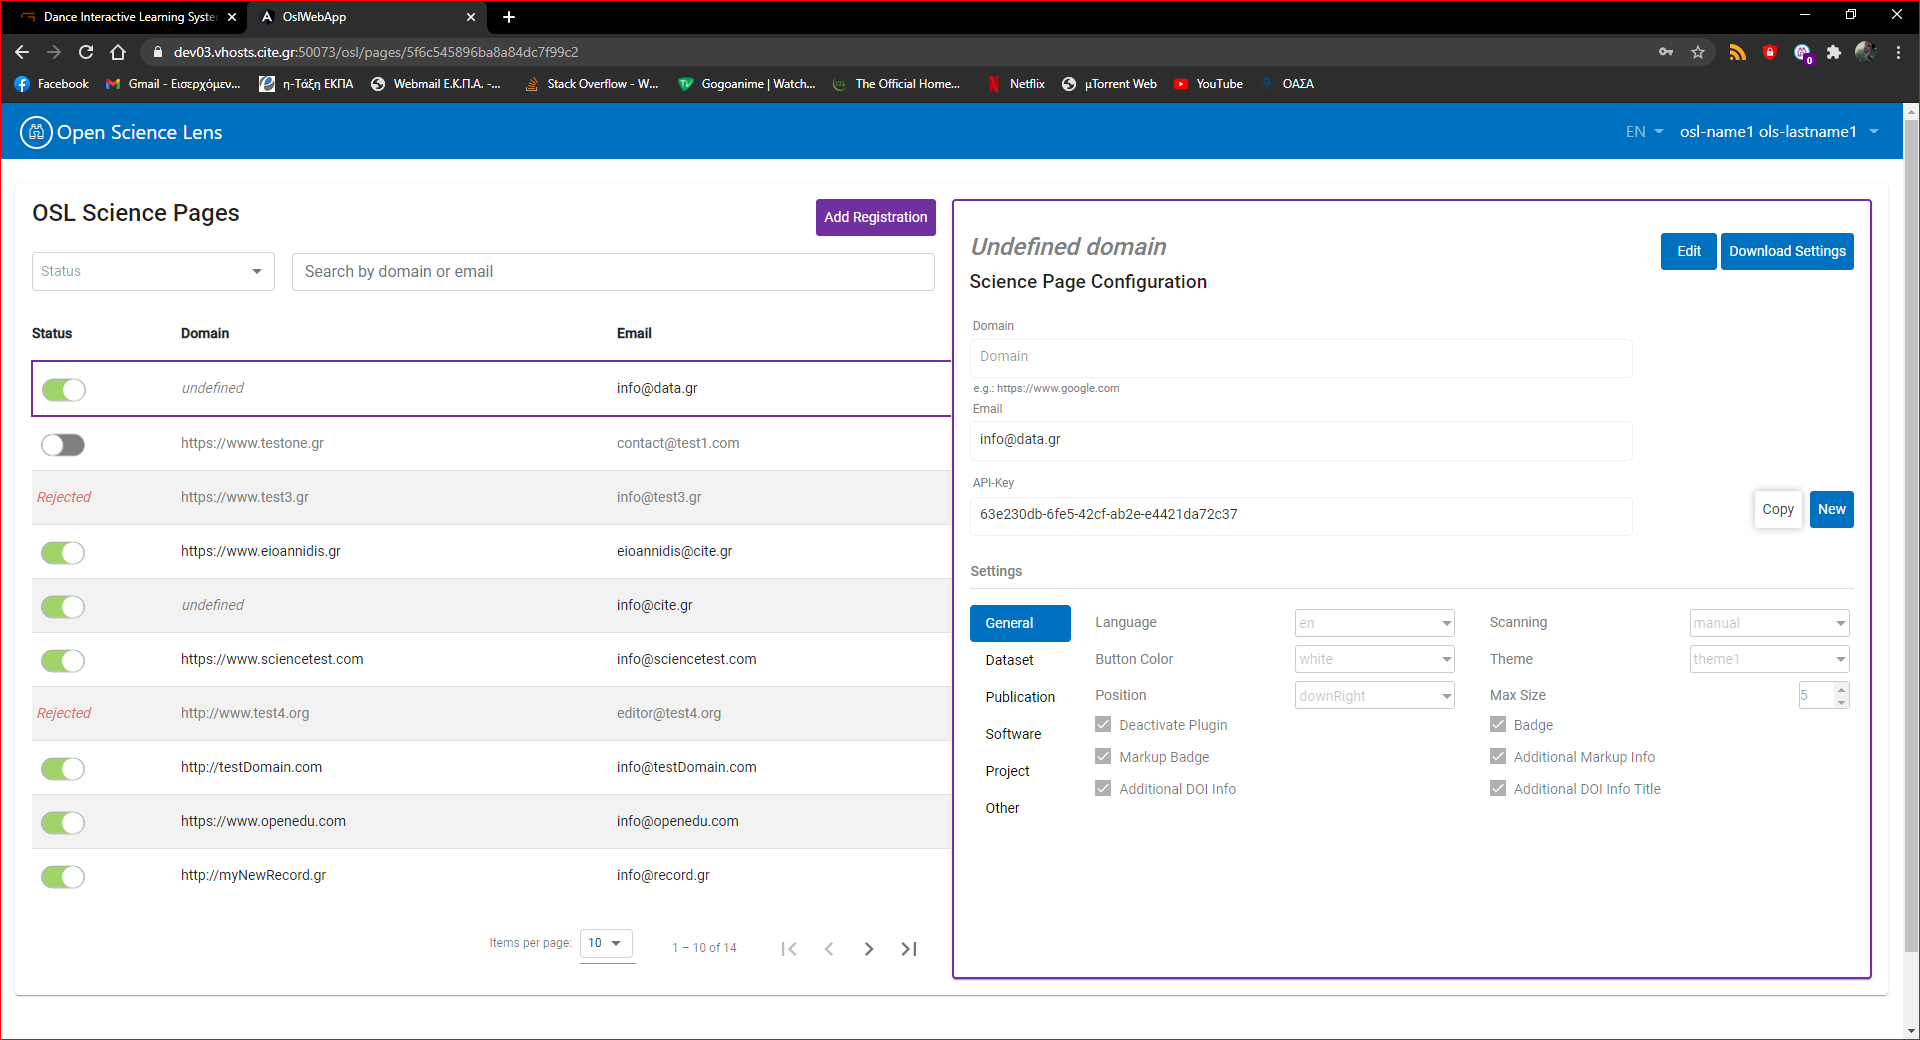
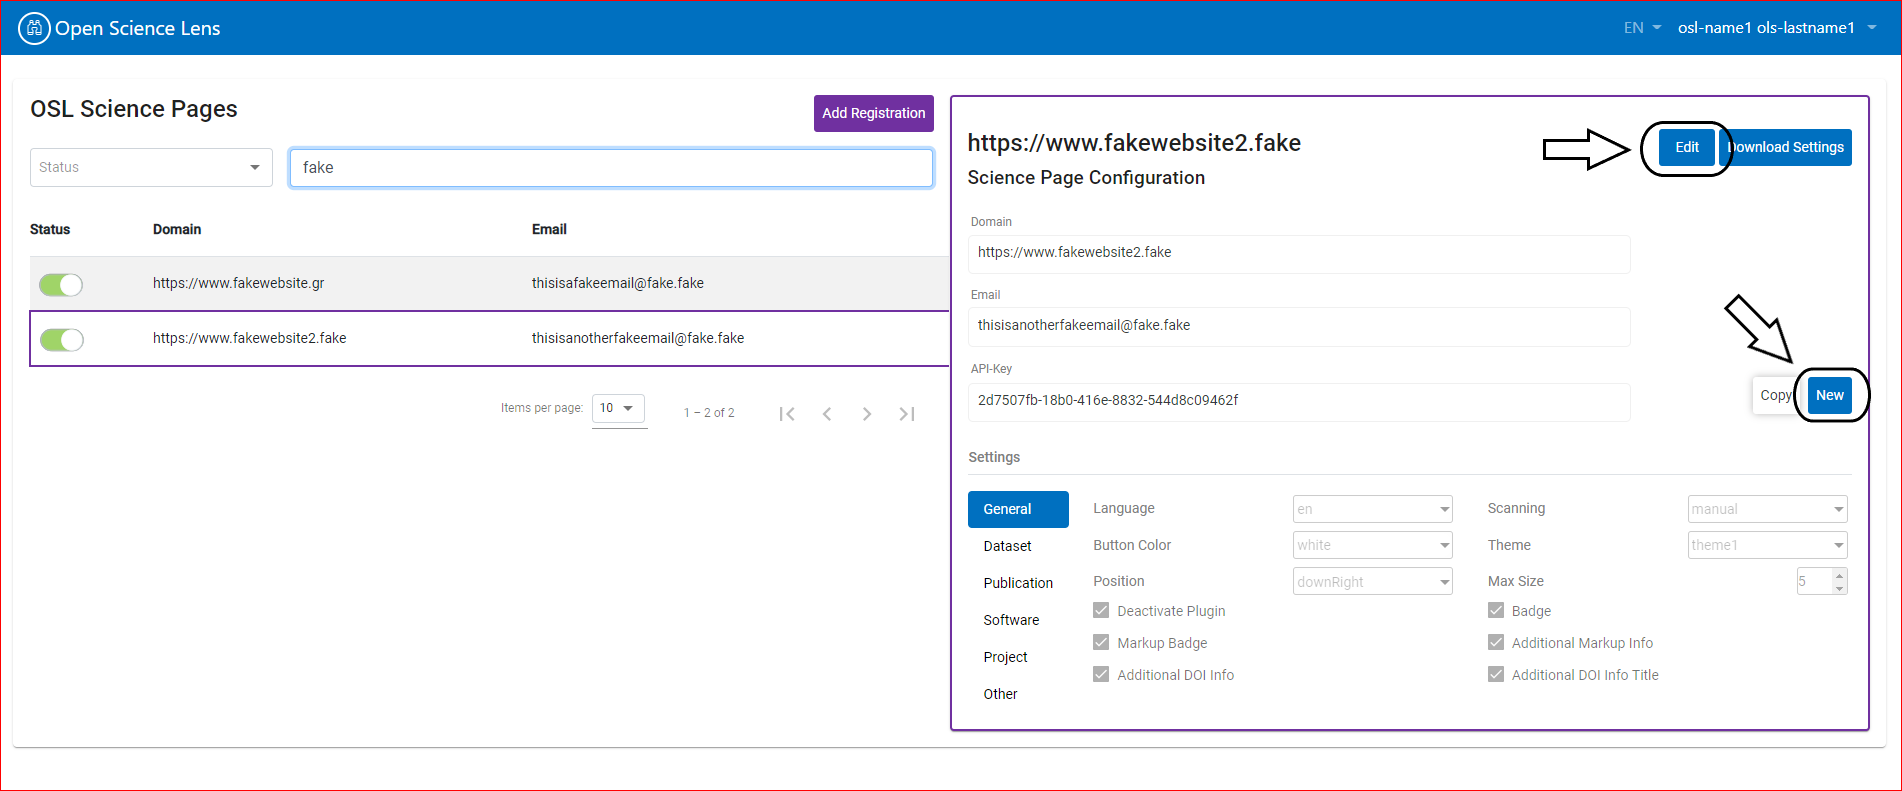
updated web-app user manual

diff --git a/docs/osl-webapp-user-manual.md b/docs/osl-webapp-user-manual.md
@@ -1,40 +1,79 @@
-# Open Science Lens Browser Web App User Manual (OSL Web App User Manual)
+# Open Science Lens Browser Web App User Manual
 
-## List of OSL functions:
-
-### Login:
-
-Logging in can be done two ways:
-
-* From the plugin. Enter the credentials and then exit the web app.
+## Login:
 
 <img src="./images-webapp/login.PNG" width="40%" height="50%">
-<img src="./images-webapp/credentials.PNG" width="40%" height="50%">
-<img src="./images-webapp/logged-in-plugin.PNG" width="40%" height="50%">
-
-* As an administrator 
-
-<img src="./images-webapp/login.PNG" width="40%" height="50%">
-<img src="./images-webapp/credentials.PNG" width="40%" height="50%">
 <img src="./images-webapp/original.PNG" width="40%" height="50%">
 
-### Scientific Pages:
+## Scientific Pages:
 
 By clicking the "Scientific Pages" button you are redirected to the main scientific page list.
 
-<img src="./images-webapp/original.PNG" width="40%" height="50%">
-<img src="./images-webapp/scientific-pages.PNG" width="40%" height="50%">
+Logging in can be done two ways:
+
+* As a general user. The general user can only see the requests he is responsible for.
+<img src="./images-webapp/scientific-pages-general-user.PNG" width="40%" height="50%">
+
+* As an administrator. The administrator can do more things than the general user:
+  * See all the requests and take certain actions (approve, reject).
+<img src="./images-webapp/scientific-page-pending.PNG" width="60%" height="50%">
+
+  * Clear the cache.  
+<img src="./images-webapp/scientific-page-clear-cache.PNG" width="60%" height="50%">
+
+There is also a search function on the top of the list:
+* Search by text  
+<img src="./images-webapp/scientific-page-search.PNG" width="40%" height="50%">
+* Search by status  
+<img src="./images-webapp/scientific-page-status.PNG" width="40%" height="50%">
+
+## New Registration
 
 By clicking on "Add Registration" you can make a new Scientific Page.
+<img src="./images-webapp/scientific-page-add-registration.PNG" width="60%" height="50%">
 
-<img src="./images-webapp/scientific-pages.PNG" width="40%" height="50%">
-<img src="./images-webapp/scientific-page-new.PNG" width="40%" height="50%">
+When adding a new registration you have certain fields to fill out:
+<img src="./images-webapp/scientific-page-add-registration-original.PNG" width="40%" height="50%">
 
-By clicking on a registration you can then see the information of the Scientific Page and even edit it.
+* Domain (has to be a certain type ex: https://www.madgik.di.uoa.gr):
+<img src="./images-webapp/scientific-page-add-registration-domain.PNG" width="40%" height="50%">
 
-<img src="./images-webapp/scientific-pages.PNG" width="40%" height="50%">
-<img src="./images-webapp/scientific-page-single.PNG" width="40%" height="50%">
+* Email (has to be a certain type ex: thisisafakeemail@fake.fake):
+<img src="./images-webapp/scientific-page-add-registration-email.PNG" width="40%" height="50%">
 
-There is a searchbar on the top of the list that allows for easy filtering of the list by either name or status.
+* Settings:
+  * General:
+<img src="./images-webapp/scientific-page-add-registration-settings-general.PNG" width="100%" height="50%">
 
-<img src="./images-webapp/scientific-page-filter.PNG" width="40%" height="50%">
+	* Language (Dropdown)
+	* Button Color (Dropdown)
+	* Position (Dropdown)
+	* Scanning (Dropdown)
+	  * manual
+	  * auto
+	  * on page load
+	  * none  
+	    <img src="./images-webapp/scientific-page-add-registration-settings-general-scanning.PNG" width="40%" height="50%">
+	* Theme (Dropdown)
+	* Max Size
+	* Deactivate Plugin (Checkbox)
+	* Badge (Checkbox)
+	* Markup Badge (Checkbox)
+	* Additional Markup Info (Checkbox)
+	* Additional DOI Info (Checkbox)
+	* Additional DOI Info Title (Checkbox)
+
+  * Others:  
+	The rest of the settings are checkboxes controlling what to show for each different type of result. You can access these settings by clicking on the buttons to the left.  
+	<img src="./images-webapp/scientific-page-add-registration-settings-general-others.PNG" width="70%" height="50%">
+    * Dataset
+	* Publication
+	* Software
+	* Project
+	* Other
+
+After saving the request is pending and you have to wait for it to be approved by an administrator. Even before being approved you can download the settings you have selected as a JSON file or even copy the API key you will be using.  
+<img src="./images-webapp/scientific-page-single-pending.PNG" width="70%" height="50%">  
+After being approved you can also edit the details you have input or ask for a new API key.  
+<img src="./images-webapp/scientific-page-single.PNG" width="50%" height="50%">
+<img src="./images-webapp/scientific-page-single-edit.PNG" width="40%" height="50%">
